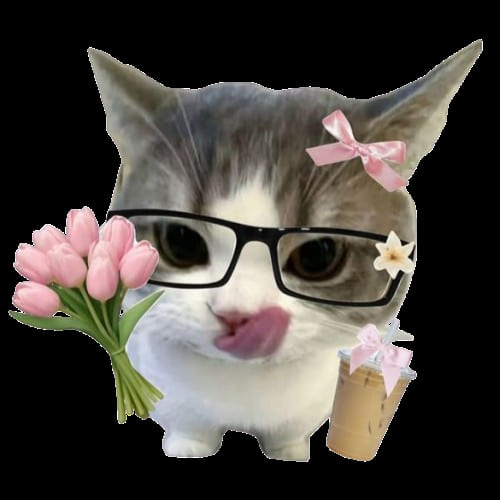
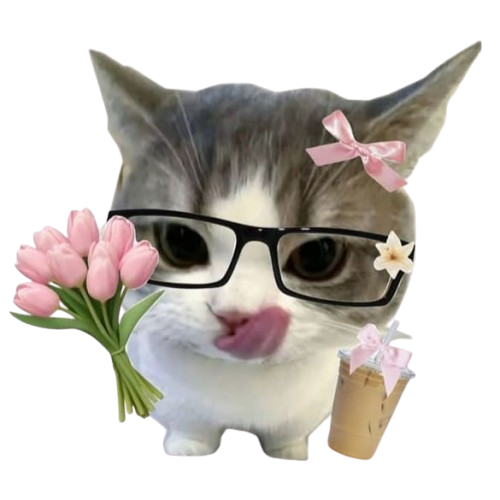
update: sticker & copyright

diff --git a/index.html b/index.html
@@ -15,46 +15,13 @@
 
         body, html {
             min-height: 100vh;
-            position: relative;
+            /* Aesthetic pink gradient background */
+            background: linear-gradient(135deg, #ffe5ec 0%, #ffc2d1 50%, #ffb3c6 100%);
             display: flex;
             justify-content: center;
             align-items: center;
             padding: 20px 10px;
             overflow-x: hidden; /* Prevent horizontal scroll for floating images */
-        }
-
-        /* --- BACKGROUND COLLAGE WITH PINK OVERLAY --- */
-        .bg-collage {
-            position: fixed;
-            top: 0;
-            left: 0;
-            width: 100%;
-            height: 100%;
-            display: grid;
-            grid-template-columns: repeat(3, 1fr); /* Menyusun foto jadi 3 kolom otomatis */
-            grid-template-rows: repeat(3, 1fr);
-            gap: 0;
-            filter: blur(10px); /* Efek blur biar ga ganggu teks utama */
-            transform: scale(1.08); /* Cegah garis putih di tepi layar akibat blur */
-            z-index: -2;
-            opacity: 0.45; /* Mengatur kepekatan foto (semakin kecil semakin transparan) */
-        }
-
-        .bg-collage img {
-            width: 100%;
-            height: 100%;
-            object-fit: cover;
-        }
-
-        /* Lapisan warna pink di atas kolase agar warna pinknya tetap dapet */
-        .bg-pink-overlay {
-            position: fixed;
-            top: 0;
-            left: 0;
-            width: 100%;
-            height: 100%;
-            background: linear-gradient(135deg, rgba(255, 229, 236, 0.75) 0%, rgba(255, 194, 209, 0.75) 50%, rgba(255, 179, 198, 0.75) 100%);
-            z-index: -1;
         }
 
         /* --- MAIN CONTAINER --- */
@@ -98,12 +65,12 @@
 
         /* --- THE PINK LIQUID GLASS PANEL --- */
         .glass-panel {
-            background: rgba(255, 255, 255, 0.55); 
+            background: rgba(255, 255, 255, 0.45); 
             border-radius: 30px;
-            backdrop-filter: blur(25px);
-            -webkit-backdrop-filter: blur(25px);
-            border: 1px solid rgba(255, 255, 255, 0.7);
-            box-shadow: 0 15px 35px rgba(255, 120, 150, 0.2);
+            backdrop-filter: blur(20px);
+            -webkit-backdrop-filter: blur(20px);
+            border: 1px solid rgba(255, 255, 255, 0.6);
+            box-shadow: 0 15px 35px rgba(255, 120, 150, 0.15);
             
             width: 100%;
             max-width: 400px; /* Slightly wider for the text */
@@ -117,7 +84,7 @@
 
         /* --- STATUS BADGE --- */
         .status-badge {
-            background-color: rgba(255, 255, 255, 0.8);
+            background-color: rgba(255, 255, 255, 0.7);
             color: #ff5c8a;
             padding: 6px 16px;
             border-radius: 20px;
@@ -135,15 +102,14 @@
             margin-bottom: 15px;
             font-weight: 800;
             color: #ff477e;
-            text-shadow: 1px 1px 2px rgba(255,255,255,0.6);
+            text-shadow: 1px 1px 2px rgba(255,255,255,0.5);
         }
 
         p {
             font-size: 0.95rem;
-            color: #42353c;
+            color: #5c4d54;
             line-height: 1.6;
             margin-bottom: 25px;
-            font-weight: 500;
         }
 
         /* --- PREMIUM PINK BUTTON --- */
@@ -227,8 +193,8 @@
             margin-top: 35px;
             font-family: 'Courier New', Courier, monospace;
             font-size: 0.75rem;
-            color: #8f7b83;
-            background: rgba(255, 255, 255, 0.5);
+            color: #a38f97;
+            background: rgba(255, 255, 255, 0.35);
             padding: 12px;
             border-radius: 12px;
             text-align: left;
@@ -237,18 +203,27 @@
 
         /* --- WATERMARK FOOTER OUTSIDE PANEL --- */
         .watermark-footer {
-            margin-top: 25px;
-            font-size: 0.85rem;
-            color: #ff477e;
-            font-weight: 700;
+            margin-top: 20px;
+            font-size: 0.8rem;
+            color: #ff6584;
+            font-weight: 600;
             letter-spacing: 1px;
             text-align: center;
             text-transform: uppercase;
-            text-shadow: 2px 2px 4px rgba(255, 255, 255, 0.9);
+            text-shadow: 1px 1px 1px rgba(255, 255, 255, 0.6);
             display: flex;
             align-items: center;
             gap: 8px;
             animation: fadeIn 1.2s ease forwards;
+        }
+
+        /* --- COPYRIGHT STYLE --- */
+        .copyright-text {
+            margin-top: 6px;
+            font-size: 0.7rem;
+            color: #bfa3ae;
+            font-weight: 500;
+            letter-spacing: 0.5px;
         }
 
         /* --- ANIMATIONS --- */
@@ -263,18 +238,6 @@
     </style>
 </head>
 <body>
-
-    <div class="bg-collage">
-        <img src="unphotobox1.jpg" alt="BG 1">
-        <img src="unphotobox2.jpg" alt="BG 2">
-        <img src="unphotobox3.jpg" alt="BG 3">
-        <img src="unphotobox4.jpg" alt="BG 4">
-        <img src="photobox1.jpg" alt="BG 5">
-        <img src="photobox2.jpg" alt="BG 6">
-        <img src="photobox3.jpg" alt="BG 7">
-        <img src="unphotobox1.jpg" alt="BG 8"> <img src="unphotobox2.jpg" alt="BG 9">
-    </div>
-    <div class="bg-pink-overlay"></div>
 
     <div class="main-container">
         <img src="stiker1.jpg" alt="Left Sticker" class="floating-cat cat-left">
@@ -332,6 +295,10 @@
 
         <div class="watermark-footer">
             🌸 Specially made for Maeya, Luluk, & April 💖
+        </div>
+
+        <div class="copyright-text">
+            Olive &copy; 2026
         </div>
     </div>
 